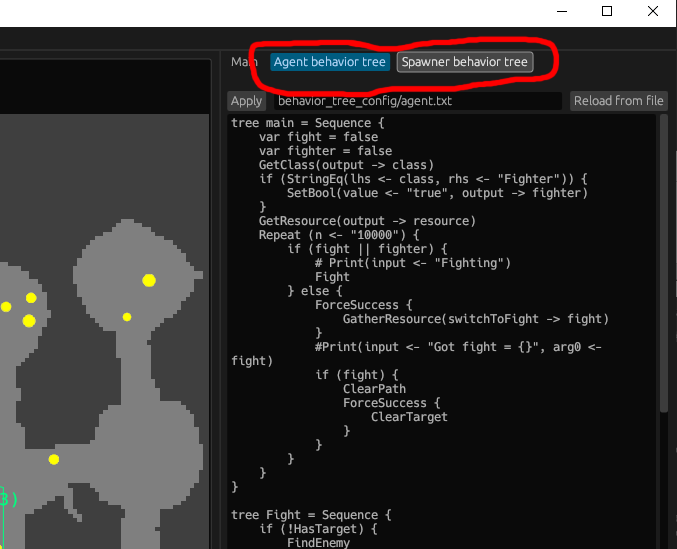
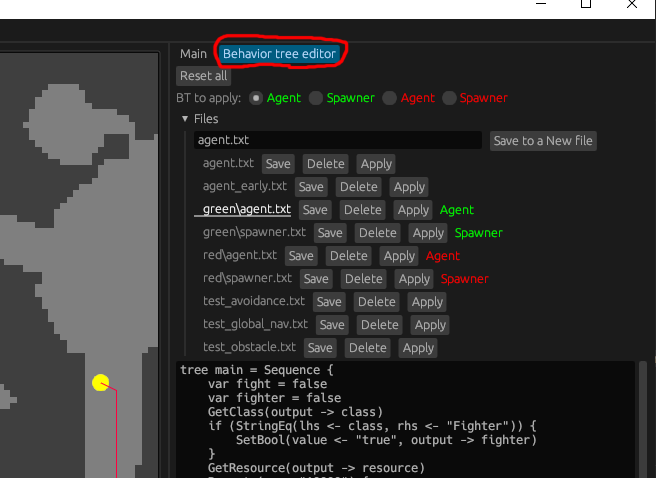
Update README.md

diff --git a/README.md b/README.md
@@ -87,11 +87,50 @@ We have 2 versions of wasm application, using different GUI frameworks.
 ## How to edit the behavior tree
 
 There are tabs to switch the main panel to the editors on right top corner of the window.
-Each tab represents the type of the entities that use the behavior.
 
 You can edit the tree in-place with the integrated text editor, or edit it in a text editor and reload from file.
 If you want to use VSCode to edit, check out the [syntax highlighting extension](https://github.com/msakuta/rusty-behavior-tree-lite/tree/master/vscode-ext).
+In a native build, the files are served from [behavior_tree_config](./behavior_tree_config/) directory.
 
 ![editor-screenshot](screenshots/behavior-tree-editors.png)
 
-Currently, loading from file is not supported in Wasm version.
+In order to load a behavior tree to a type of entity, do this:
+
+* Select the type of entities (green Agent, green Spawner, etc.) in the radio buttons next to "BT to apply"
+* Click "Apply" button on the side of each file name
+
+It will assign the behavior tree to the type of entity and show it in a label next to the file buttons.
+
+### Error reporting message
+
+When a behavior tree is assigned, a syntax check will run on the behavior tree config file, and reports in a message box if there is an error.
+
+![image](screenshots/bt-error.png)
+
+### Delete confirmation
+
+
+Also there is a confirmation dialog for deleting a file, in order to prevent the user from accidentally deleting an important file.
+
+![image](screenshots/delete-confirmation.png)
+
+
+### "Dirty" editor buffer
+
+We do not have multiple buffers like fancy editors (technically we do, inside virtual filesystem, but they are considered "saved to disk").
+So, whenever you switch the file, you would lose the edited content. This "dirty" buffer is marked with a star.
+
+![image](screenshots/dirty-editor.png)
+
+If you try to open a file, it will warn you that it would lose your edits.
+
+![image](screenshots/discard-confirmation.png)
+
+
+### "Reset all" button
+
+The user may mess up the files, for example, erasing an entire file or overwriting one with another, and we want to have a way to recover from it. It is easy to happen when you are new to this game and editor experience.
+
+The "Reset all" button will reset all files to the built-in default, in both native and Wasm build. It is dangerous operation, so there is also a confirmation dialog.
+
+![image](screenshots/reset-all-confirmation.png)
